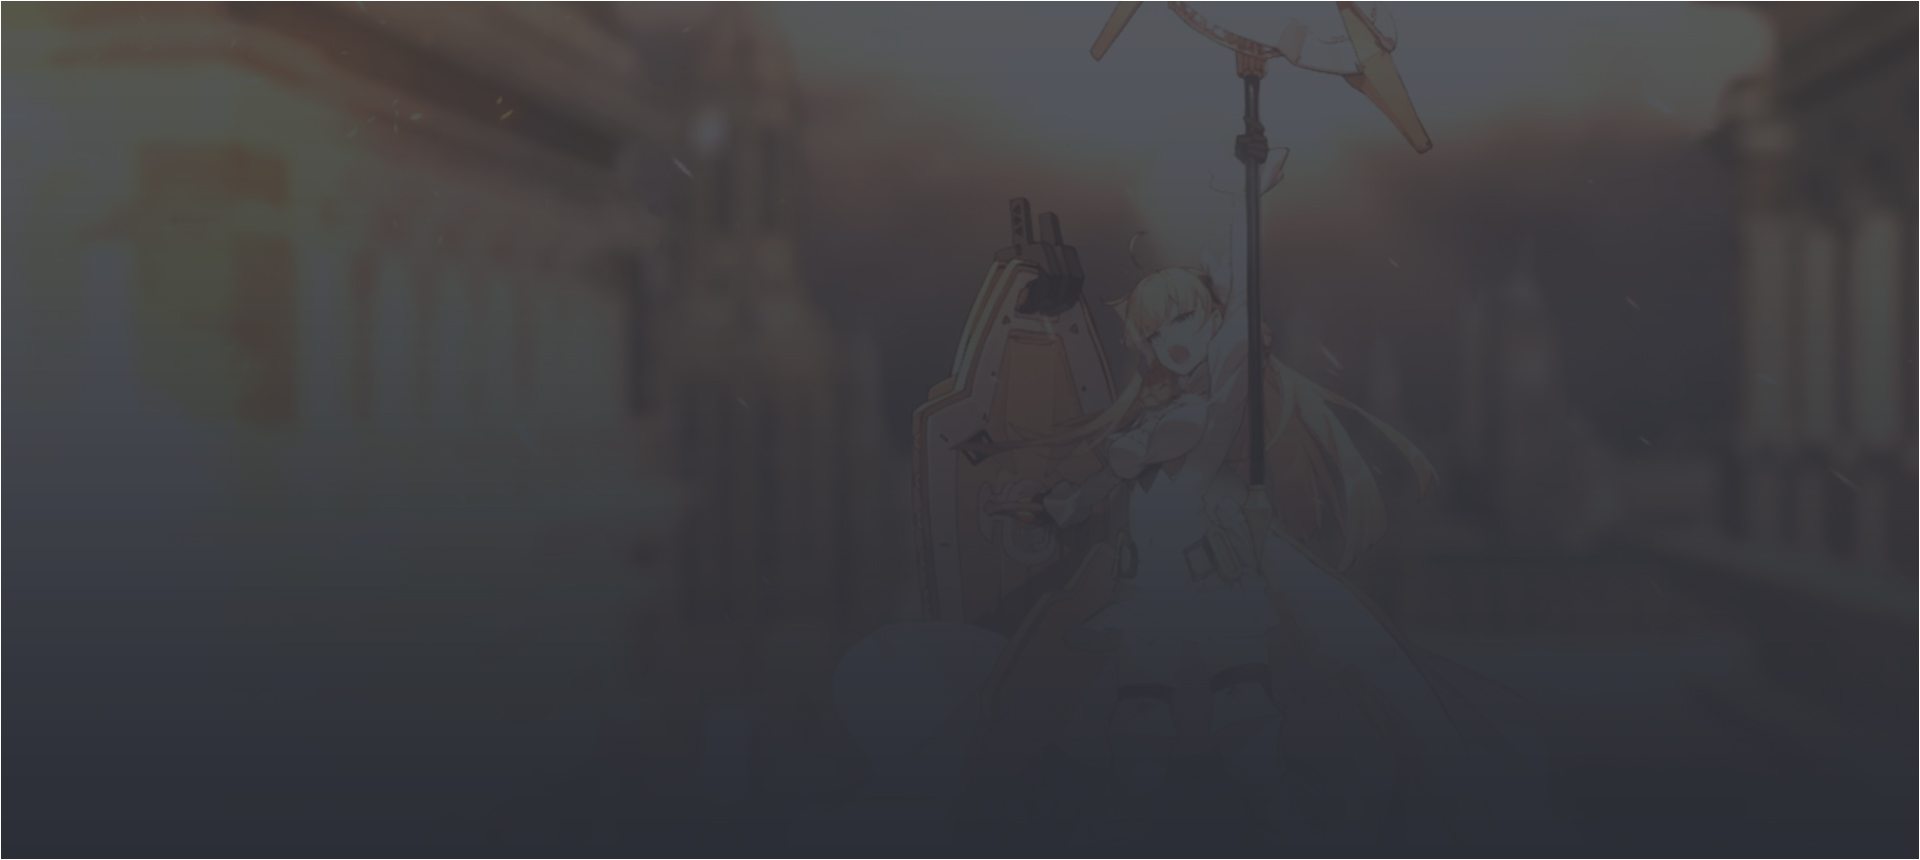
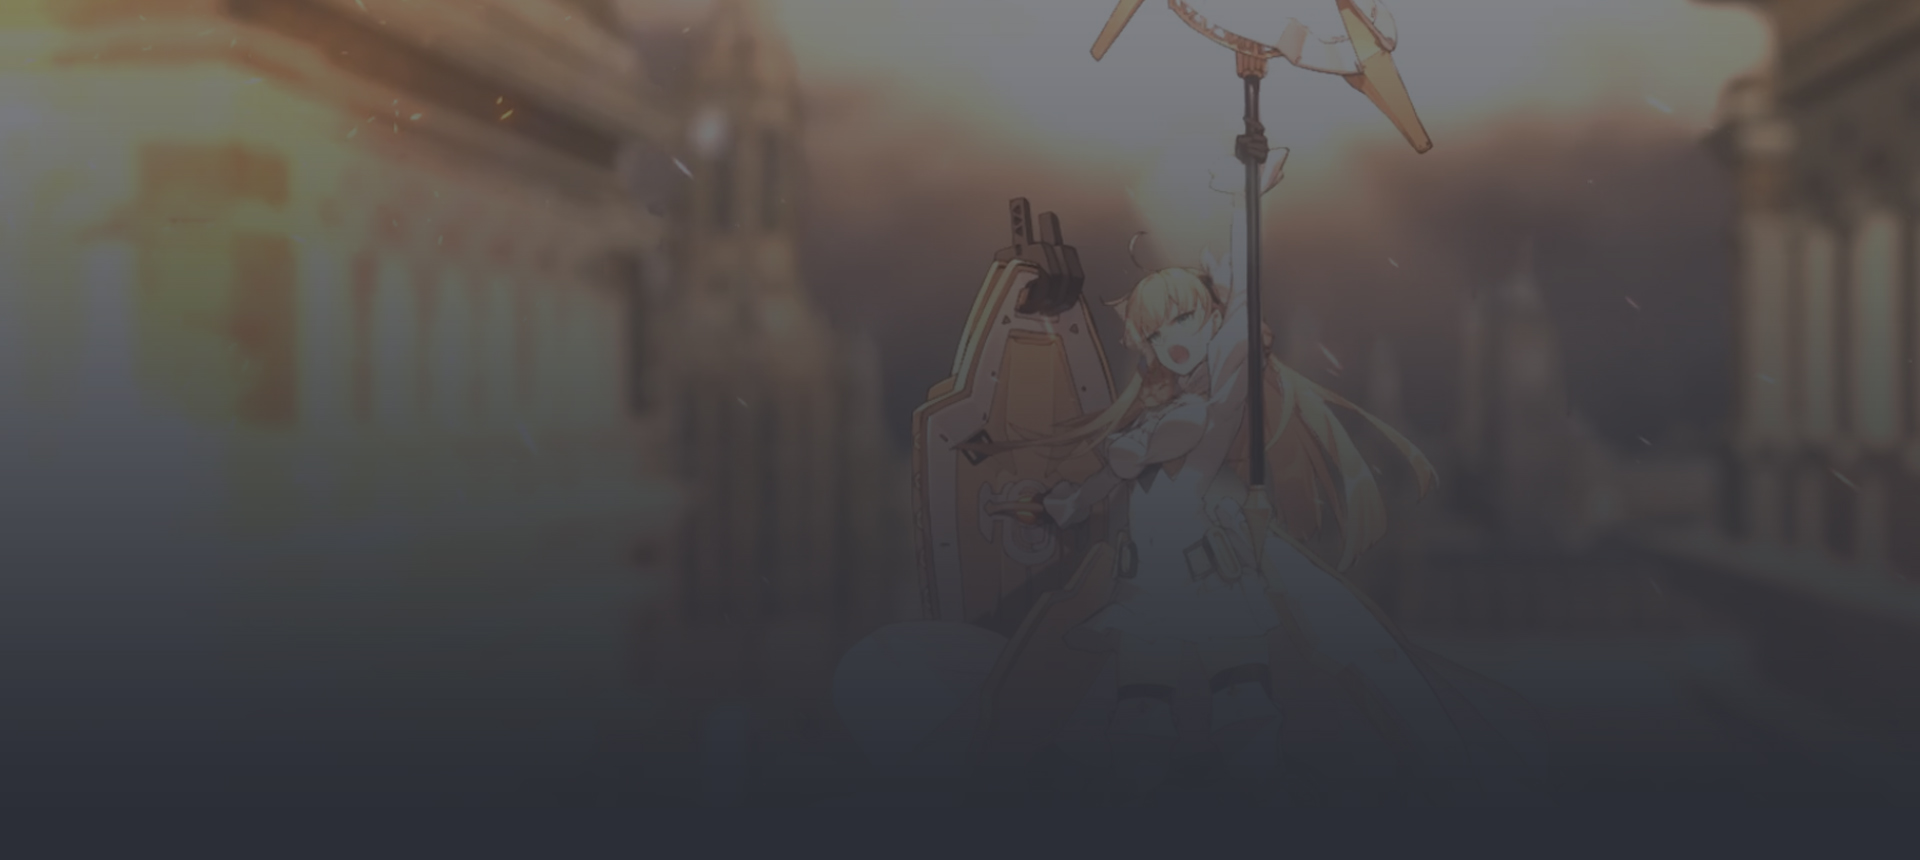
1

diff --git a/index.html b/index.html
@@ -72,7 +72,7 @@
 
             <!-- 轉場延遲 -->
             <div
-              class="rel min-h:calc(100vh-90px) p:20|20|70 p:40@sm f:fade-42 f:fade-76@dark bg:fade-88 bg:fade-24@dark bg:no-repeat bg:100% bg:url(https://lktb2000.github.io/LenaElsaStudio//img/home/main_background_1200.jpg)@dark opacity:.75 invisible ~opacity|.3s,visibility|.3s .is-loaded_{opacity:1;visible;~delay:0s}" 
+              class="rel min-h:calc(100vh-90px) p:20|20|70 p:40@sm f:fade-42 f:fade-76@dark bg:fade-88 bg:fade-24@dark bg:no-repeat bg:100% bg:url(https://lktb2000.github.io/LenaElsaStudio//img/home/main_background_860.jpg)@dark opacity:.75 invisible ~opacity|.3s,visibility|.3s .is-loaded_{opacity:1;visible;~delay:0s}" 
             >
               <h2 class="f:bold f:32">公告</h2>
               <p>

diff --git a/ag0_char.tier.html b/ag0_char.tier.html
@@ -25,7 +25,7 @@
 
         <section id="app" class="p:0|10|10">
           <div
-            class="min-h:calc(100vh-90px) p:20|20|70 pt:20@sm p:40@sm bg:fade-88 bg:fade-24@dark bg:no-repeat bg:fixed bg:100% bg:url(https://lktb2000.github.io/LenaElsaStudio/img/home/main_background_1200.jpg)@dark r:8"
+            class="min-h:calc(100vh-90px) p:20|20|70 pt:20@sm p:40@sm bg:fade-88 bg:fade-24@dark bg:no-repeat bg:fixed bg:100% bg:url(https://lktb2000.github.io/LenaElsaStudio/img/home/main_background_860.jpg)@dark r:8"
           >
             <div class="hide grid-cols:3 gap:10">  <!-- Hide隱藏 -->
               <div class="grid-col-span:3">
